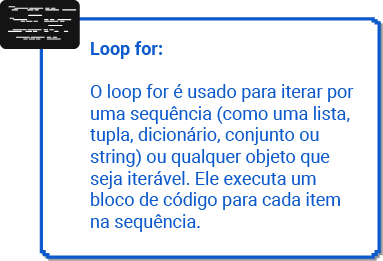
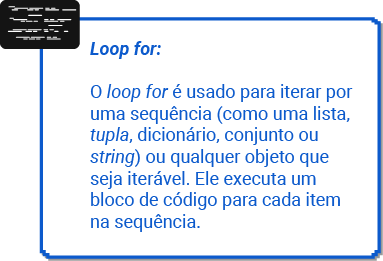
ajustes finais

Changed region(s): [[0.2298, 0.4904, 0.8616, 0.6437], [0.2585, 0.3065, 0.9191, 0.3985], [0.2298, 0.1533, 0.4308, 0.2452]]

diff --git a/versao python/03_linguagem_programacao/index.html b/versao python/03_linguagem_programacao/index.html
@@ -656,9 +656,15 @@
               </p>
             </div>
 
-            <p>Em resumo, o Python é bem-sucedido devido à sua simplicidade, versatilidade,
+            <p>
+              Em resumo, o Python é bem-sucedido devido à sua simplicidade, versatilidade,
               comunidade ativa e suporte para diversas áreas, tornando-o uma escolha sólida para
-              uma ampla variedade de projetos de desenvolvimento de <i>software</i>.</p>
+              uma ampla variedade de projetos de desenvolvimento de <i>software</i>.
+            </p>
+
+            <p>
+              Assista ao vídeo a seguir para aprender mais detalhes sobre a linguagem de programação Python. 
+            </p>
 
             <div class="video-player">
               <div class="embed-responsive embed-responsive-16by9">
@@ -1664,7 +1670,7 @@ populacao = <span class="language-python__red">7000000000</span>
                   incluem:
                 </p>
 
-                <img src="./imagens/infografico_bits.png" class="img-responsive center-block print" alt="" srcset="">
+                <img src="./imagens/infografico_marcadores.png" class="img-responsive center-block print" alt="" srcset="">
 
                 <div class="acessivel no-print">
                   <ul>
@@ -3940,7 +3946,7 @@ resultado = switch_dict.get(valor, default)()
             <div class="destaque-pixel">
               <div class="icone-position-importante">
                 <div class="caixa-destaque ">
-                  Vale ressaltar que Python não possui a estrutura do-while encontrada em algumas
+                  Vale ressaltar que Python não possui a estrutura <i>do-while</i> encontrada em algumas
                   outras linguagens, mas você pode alcançar um comportamento semelhante usando
                   um <i>loop while</i> com uma condição pós-teste.
                 </div>
@@ -3958,7 +3964,7 @@ resultado = switch_dict.get(valor, default)()
             </p>
 
             <p>
-              <b>Sintaxe Básica:</b>
+              <b>Sintaxe Básica</b>
             </p>
 
             <p>
@@ -4045,7 +4051,7 @@ mensagem = <span class="language-python__green">"Olá, Python!"</span>
             <div class="titulo-exemplos">
               <h4>Exemplo 4</h4>
               <h4>Especificando um Intervalo com range():</h4>
-              </div>
+            </div>
             <pre>
               <code>
 <span class="language-python__blue">for</span> numero <span class="language-python__blue">in</span> <span class="language-python__orange">range</span>(<span class="language-python__red">2</span>,<span class="language-python__red">10</span>,<span class="language-python__red">2</span>)
@@ -4066,7 +4072,10 @@ mensagem = <span class="language-python__green">"Olá, Python!"</span>
               Você também pode acessar os índices de uma sequência usando a função “enumerate()” para obter o índice e o valor ao mesmo tempo.
             </p>
 
-            <h4>Exemplo 5: Acessando Índices com enumerate():</h4>
+            <div class="titulo-exemplos">
+              <h4>Exemplo 5</h4>
+              <h4>Acessando Índices com enumerate():</h4>
+            </div>
 
             <pre>
               <code>
@@ -4798,6 +4807,44 @@ matriz = [[<span class="language-python__red">0</span>, <span class="language-py
                   </div>
                 </div>
 
+                <div class="panel panel-default">
+                  <div class="panel-heading" role="tab" id="headingOne">
+                    <h4 class="panel-title">
+                      <a
+                        class="collapsed"
+                        role="button"
+                        data-toggle="collapse"
+                        data-parent="#accordion7"
+                        href="#collapse80"
+                        aria-expanded="true"
+                        aria-controls="collapseOne"
+                      >
+                      Exemplo de Matriz (Lista Aninhada)
+                      </a>
+                    </h4>
+                  </div>
+                  <div
+                    id="collapse80"
+                    class="panel-collapse collapse"
+                    role="tabpanel"
+                    aria-labelledby="headingOne"
+                  >
+                    <div class="panel-body">
+                      <p>
+                        Suponha que há a seguinte matriz (ou lista aninhada): 
+                      </p>                                  
+                      <pre>
+                        <code>
+matriz = [[<span class="language-python__red">0</span>, <span class="language-python__red">1</span>, <span class="language-python__red">2</span>, <span class="language-python__red">3</span>], [<span class="language-python__red">4</span>, <span class="language-python__red">5</span>, , <span class="language-python__red">6</span>], [<span class="language-python__red">7</span>, <span class="language-python__red">8</span>, , <span class="language-python__red">9</span>]]
+                        </code>
+                      </pre>
+                      <p>
+                        Nessa matriz, cada elemento é uma lista de três números. 
+                      </p>
+                    </div>
+                  </div>
+                </div>
+
               </div>
             </div>
 
@@ -4965,7 +5012,7 @@ matriz = [[<span class="language-python__red">0</span>, <span class="language-py
               </p>
             </div>
 
-            <h4>Acessando um Elemento Específico:</h4>
+            <h4>Acessando um Elemento Específico</h4>
 
             <p>
               Para acessar um elemento específico da matriz, você fornece o índice da lista externa (linha) e, em seguida, o índice da lista interna (coluna) para obter o valor desejado. 
@@ -4986,7 +5033,7 @@ valor = matriz[<span class="language-python__red">1</span>][<span class="languag
             </p>
 
             <p>
-              Para percorrer todos os elementos de uma matriz, você pode usar loops for aninhados.
+              Para percorrer todos os elementos de uma matriz, você pode usar <i>loops for</i> aninhados.
             </p>
 
             <pre>

diff --git a/versao python/02_orientacao_a_objeto/index.html b/versao python/02_orientacao_a_objeto/index.html
@@ -173,6 +173,26 @@
             
             <p>Nesse código, há uma classe <b>Animal</b>, e, como atributos, foram utilizados “nome”, que é uma <i>string</i>; como segundo atributo o item “raca” (sem “ç”, que não se utiliza em nomes de atributos e variáveis), que também é uma <i>string</i>; e, como terceiro atributo, o item “peso”, que é do tipo <i>float</i> (número que aceita vírgula).</p>
 
+            <h3>Instalação do Python e PyCharm</h3>
+
+            <p>
+              Assista aos vídeos a seguir para saber como instalar o Python e o PyCharm.
+            </p>
+
+            <div class="video-player">
+              <div class="embed-responsive embed-responsive-16by9">
+                <iframe class="embed-responsive" title="Player de vídeo" name="tube" src="https://www.youtube.com/embed/lhLn-AQkf14?si=pzlXs2jCCNl2lKXo"
+                  allowfullscreen="" wmode="window" frameborder="0"></iframe>
+              </div>
+            </div>
+
+            <div class="video-player">
+              <div class="embed-responsive embed-responsive-16by9">
+                <iframe class="embed-responsive" title="Player de vídeo" name="tube" src="https://www.youtube.com/embed/RYIRjAnKyY0?si=3oviwsrhqTGmw0V5"
+                  allowfullscreen="" wmode="window" frameborder="0"></iframe>
+              </div>
+            </div>
+
             <p>Antes do primeiro desafio, entenda como é criado o primeiro projeto no Pycharm, <i>Integrated Development Environment</i> (IDE), em inglês, que pode ser traduzido como “Ambiente de Desenvolvimento Integrado” ou simplesmente “Ambiente de Desenvolvimento” (AD).</p>
 
             <p>Assista ao vídeo a seguir para compreender o passo a passo de criação de um projeto Python no Pycharm.</p>
